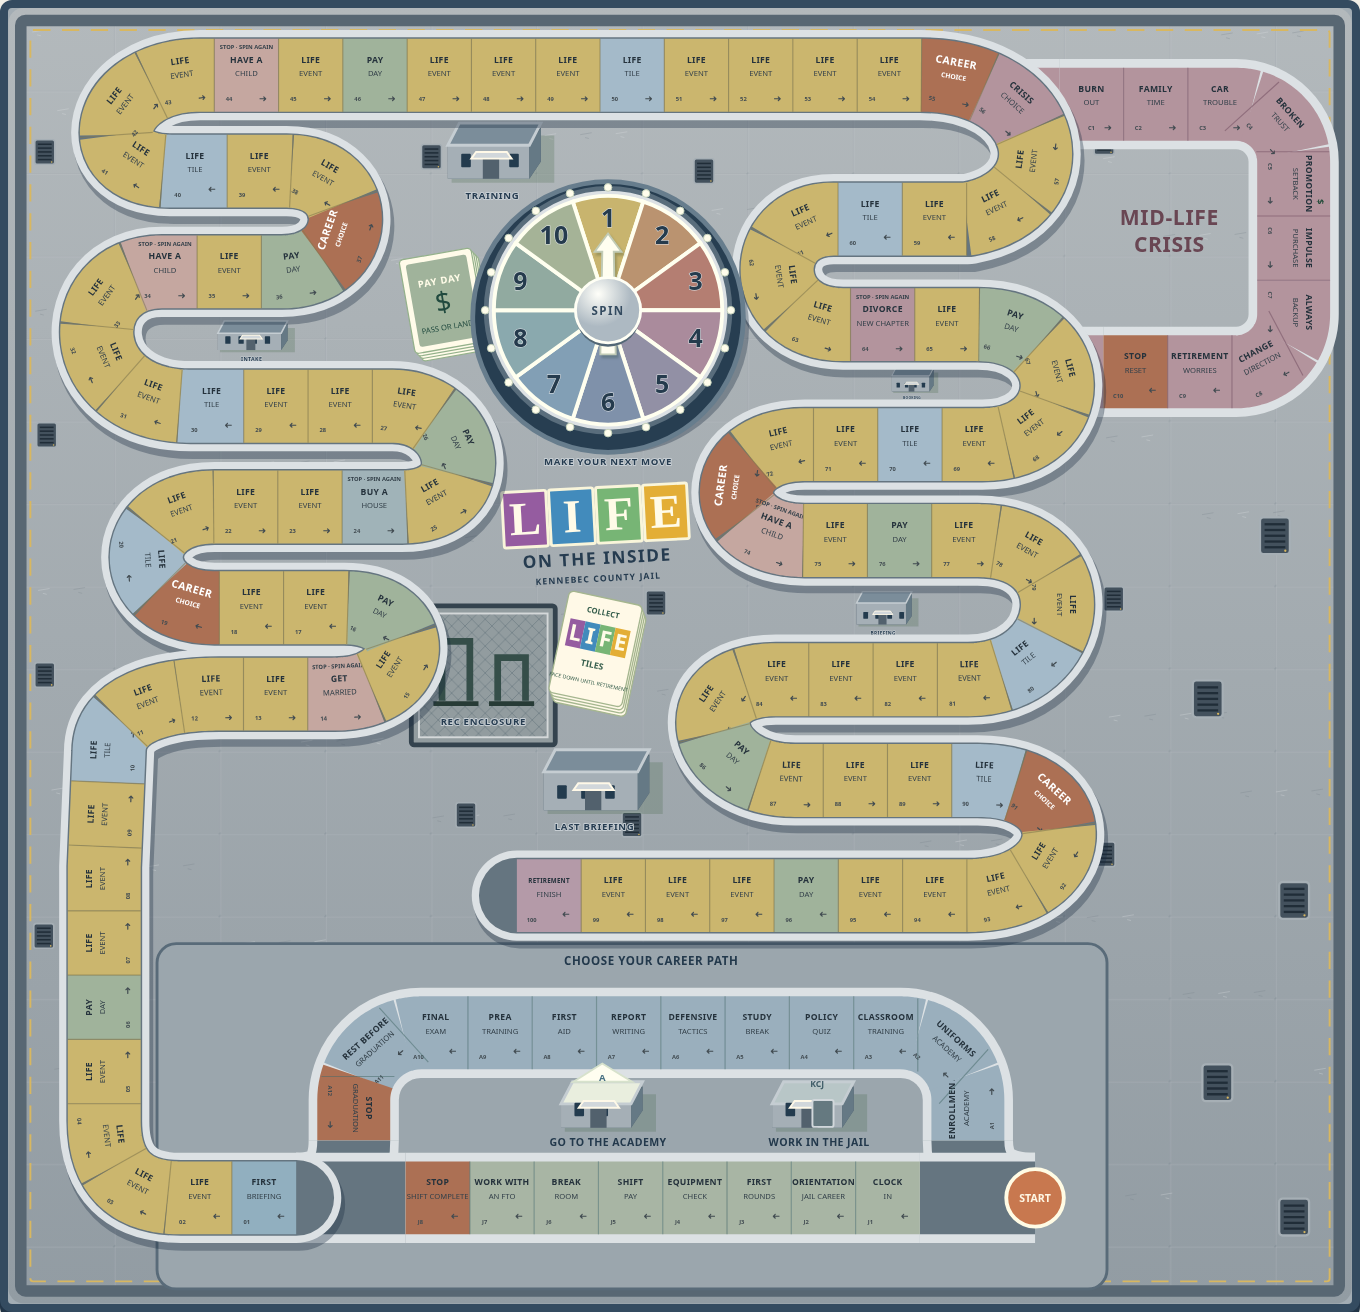
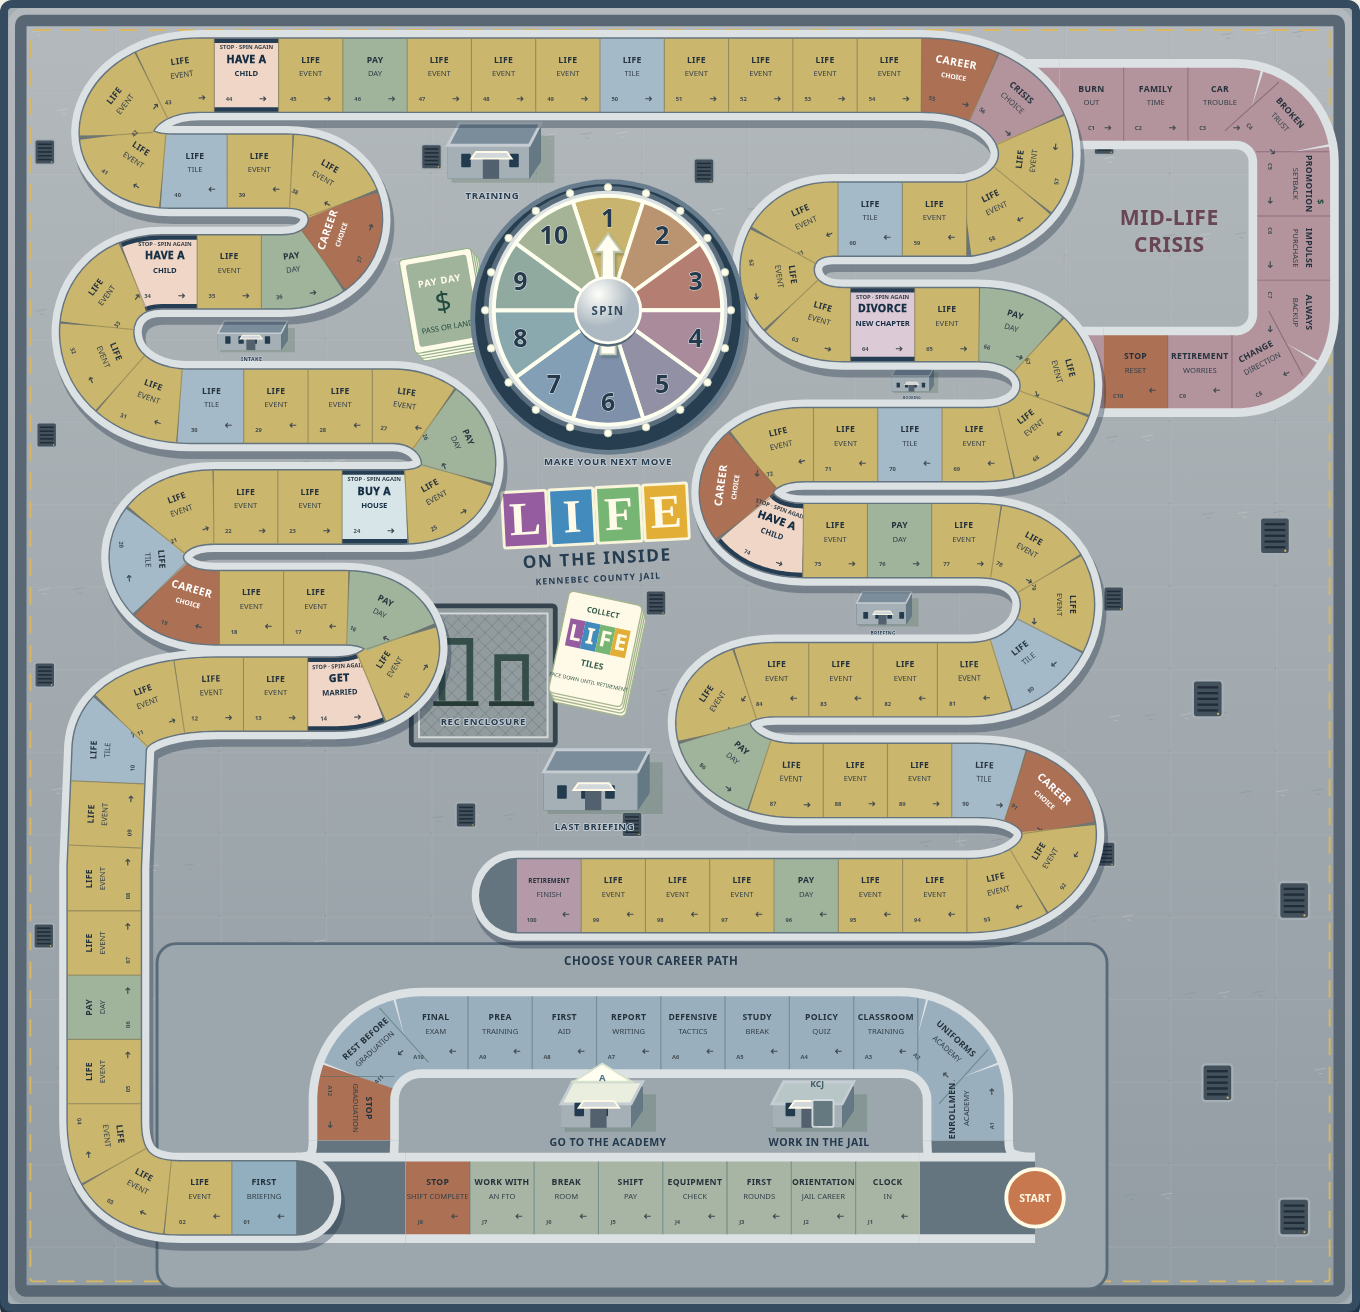
Highlight family stops and refresh cached LIFE board modules

diff --git a/public/life.html b/public/life.html
@@ -1,7 +1,7 @@
-<!doctype html><html lang="en"><head><meta charset="utf-8"><meta name="viewport" content="width=device-width,initial-scale=1"><title>Life on the Inside · The County Career</title><link rel="stylesheet" href="/life/style.css"><link rel="stylesheet" href="/life/board.css"><link rel="stylesheet" href="/online.css"><script type="module" src="/life/app.js"></script></head><body>
+<!doctype html><html lang="en"><head><meta charset="utf-8"><meta name="viewport" content="width=device-width,initial-scale=1"><title>Life on the Inside · The County Career</title><link rel="stylesheet" href="/life/style.css"><link rel="stylesheet" href="/life/board.css?v=family-stops-2"><link rel="stylesheet" href="/online.css"><script type="module" src="/life/app.js?v=family-stops-2"></script></head><body>
 <header class="life-header"><a class="life-brand" href="/"><span class="brand-stamp" aria-hidden="true">L</span><span>Life on the Inside<small>THE COUNTY CAREER</small></span></a><nav><button id="showRules" class="text-button" type="button">How to play</button><a href="/">All games</a></nav></header>
 <main id="lifeMain"><section class="game-intro"><div><p class="eyebrow">KENNEBEC COUNTY JAIL</p><h1>A career worth<br>talking about.</h1></div><p>Work the shift. Look after your crew.<br>Make it to retirement your way.</p></section>
-<div class="career-layout"><section class="board-panel" aria-label="Career board"><div class="board-heading"><span>THE COUNTY CAREER</span><a href="/life-preview">View board mockup</a></div><div id="careerBoard" class="career-board" aria-label="Career path from first briefing to retirement"><div id="careerTiles" class="career-tiles"></div><div id="careerTokens" class="career-tokens"></div></div><div class="board-key"><span><b>Yellow</b> County event</span><span><b>Coral</b> Career choice</span><span><b>Green</b> Pay Day</span><span><b>Blue</b> LIFE tile</span><span><b>Rose</b> Mid-Life Crisis</span></div><p class="board-note">Collect salary when passing or landing on green Pay Days. Land on blue spaces to collect face-down LIFE tiles. At Stop 56, choose the main road or Mid-Life Crisis; the detour rejoins at Stop 67.</p></section>
+<div class="career-layout"><section class="board-panel" aria-label="Career board"><div class="board-heading"><span>THE COUNTY CAREER</span><a href="/life-preview">View board mockup</a></div><div id="careerBoard" class="career-board" aria-label="Career path from first briefing to retirement"><div id="careerTiles" class="career-tiles"></div><div id="careerTokens" class="career-tokens"></div></div><div class="board-key"><span><b>Yellow</b> County event</span><span><b>Coral</b> Career choice</span><span><b>Green</b> Pay Day</span><span><b>Blue</b> LIFE tile</span><span><b>Rose</b> Mid-Life Crisis</span><span><b>Navy border</b> Family stops · resolve and spin again</span></div><p class="board-note">Collect salary when passing or landing on green Pay Days. Land on blue spaces to collect face-down LIFE tiles. At Stop 56, choose the main road or Mid-Life Crisis; the detour rejoins at Stop 67.</p></section>
 <section class="turn-panel" aria-label="Turn controls"><p id="turnEyebrow" class="eyebrow">ON THE CLOCK</p><h2 id="turnName">Loading your crew…</h2><p id="turnRank"></p><div id="turnStats" class="turn-stats"></div><div id="lifeTileRack" class="life-tile-collection"></div><div class="roll-area"><span id="careerDie" class="spinner-result" aria-label="Spinner ready">–</span><p id="turnHint" role="status" aria-live="polite"></p></div><button id="rollCareer" class="primary" type="button">Spin for your shift →</button><button id="openDecision" class="primary" type="button" hidden>Make your decision →</button><button id="endCareerTurn" class="primary" type="button" hidden>End turn →</button><p id="lifeError" class="error" role="alert"></p><button data-end-game class="text-button danger" type="button" hidden>End game</button></section></div>
 <section class="roster-section" aria-labelledby="rosterTitle"><div class="section-heading"><p class="eyebrow">YOUR CREW</p><h2 id="rosterTitle">Everyone’s building a story.</h2></div><div id="careerRoster" class="career-roster"></div></section>
 <section id="careerResults" class="results" aria-labelledby="resultsTitle" hidden><p class="eyebrow">THE FINAL BRIEFING</p><h2 id="resultsTitle"></h2><p>Savings + LIFE tile bonuses + home value + $100 per child.</p><ol id="finalScores"></ol><a class="primary" href="/life-setup">Play again →</a></section>

diff --git a/public/life-preview.html b/public/life-preview.html
@@ -1,3 +1,3 @@
-<!doctype html><html lang="en"><head><meta charset="utf-8"><meta name="viewport" content="width=device-width,initial-scale=1"><meta name="description" content="See the winding board mockup for Life on the Inside, the Kennebec County Jail career game."><title>Life on the Inside · Board mockup</title><link rel="stylesheet" href="/life/style.css"><link rel="stylesheet" href="/life/board.css"><script type="module" src="/life/preview.js"></script></head><body>
+<!doctype html><html lang="en"><head><meta charset="utf-8"><meta name="viewport" content="width=device-width,initial-scale=1"><meta name="description" content="See the winding board mockup for Life on the Inside, the Kennebec County Jail career game."><title>Life on the Inside · Board mockup</title><link rel="stylesheet" href="/life/style.css"><link rel="stylesheet" href="/life/board.css?v=family-stops-2"><script type="module" src="/life/preview.js?v=family-stops-2"></script></head><body>
 <header class="life-header"><a class="life-brand" href="/"><span class="brand-stamp" aria-hidden="true">L</span><span>Life on the Inside<small>THE COUNTY CAREER</small></span></a><nav aria-label="Game navigation"><a href="/">All games</a><a href="/life-setup">Play the game</a></nav></header>
-<main class="board-preview-main"><span class="preview-tag">BOARD MOCKUP</span><h1>Choose your path.<br>Build your career.</h1><p class="lead">Play through 12 Academy spaces or 8 jail-career spaces, then follow the winding main road with 100 spaces and a ten-number spinner. Just after halfway, a ten-space Mid-Life Crisis branch brings difficult choices before rejoining the main road. Collect paychecks, make life decisions, and gather face-down LIFE tiles worth cash at retirement.</p><div class="preview-board-wrap"><div class="board-heading"><span>LIFE ON THE INSIDE</span><span>KENNEBEC COUNTY JAIL</span></div><div id="careerBoard" class="career-board" aria-label="Board mockup"><div id="careerTiles" class="career-tiles"></div></div><div class="board-key"><span><b>Yellow</b> County event</span><span><b>Coral</b> Career choice</span><span><b>Green</b> Pay Day</span><span><b>Blue</b> LIFE tile</span><span><b>Rose</b> Mid-Life Crisis</span></div></div><div class="preview-actions"><a class="primary" href="/life-setup">Gather your crew →</a><a class="life-preview-link" href="/life/board-mockup.png">Open full-size mockup ↗</a><span id="previewSpinResult" role="status" aria-live="polite">Try the spinner in the middle of the board.</span></div></main><footer>Life on the Inside · The County Career</footer></body></html>
+<main class="board-preview-main"><span class="preview-tag">BOARD MOCKUP</span><h1>Choose your path.<br>Build your career.</h1><p class="lead">Play through 12 Academy spaces or 8 jail-career spaces, then follow the winding main road with 100 spaces and a ten-number spinner. Just after halfway, a ten-space Mid-Life Crisis branch brings difficult choices before rejoining the main road. Collect paychecks, make life decisions, and gather face-down LIFE tiles worth cash at retirement.</p><div class="preview-board-wrap"><div class="board-heading"><span>LIFE ON THE INSIDE</span><span>KENNEBEC COUNTY JAIL</span></div><div id="careerBoard" class="career-board" aria-label="Board mockup"><div id="careerTiles" class="career-tiles"></div></div><div class="board-key"><span><b>Yellow</b> County event</span><span><b>Coral</b> Career choice</span><span><b>Green</b> Pay Day</span><span><b>Blue</b> LIFE tile</span><span><b>Rose</b> Mid-Life Crisis</span><span><b>Navy border</b> Family stops · resolve and spin again</span></div></div><div class="preview-actions"><a class="primary" href="/life-setup">Gather your crew →</a><a class="life-preview-link" href="/life/board-mockup.png?v=family-stops-2">Open full-size mockup ↗</a><span id="previewSpinResult" role="status" aria-live="polite">Try the spinner in the middle of the board.</span></div></main><footer>Life on the Inside · The County Career</footer></body></html>

diff --git a/public/life/board.js b/public/life/board.js
@@ -1,4 +1,4 @@
-import {spaces,entryTracks,crisisSpaces,crisisFork,crisisRejoin,spinnerMax,spinnerStep} from './rules.js';
+import {spaces,entryTracks,crisisSpaces,crisisFork,crisisRejoin,spinnerMax,spinnerStep} from './rules.js?v=family-stops-2';
 
 // All board art is original SVG. The road geometry also drives pawn movement.
 export const boardWidth=1400,boardHeight=1350;
@@ -188,9 +188,11 @@ export function createBoard(target){
  add(svg,'path',{d:road,fill:'none',stroke:'#dce1e4','stroke-width':94,'stroke-linecap':'round','stroke-linejoin':'round'});
  add(svg,'path',{d:road,fill:'none',stroke:'#657580','stroke-width':79,'stroke-linecap':'round'});
  spaces.forEach((space,i)=>{
-  const tile=add(svg,'g',{class:'career-tile type-'+space.type,'aria-label':`Stop ${i+1}: ${space.name}`});
+  const tile=add(svg,'g',{class:'career-tile type-'+space.type+(space.eventId?' family-stop':''),'aria-label':`Stop ${i+1}: ${space.name}`});
   const samples=Array.from({length:17},(_,j)=>point((i+j/16)*step));
   add(tile,'path',{d:samples.map((p,j)=>(j?'L':'M')+p.x.toFixed(2)+' '+p.y.toFixed(2)).join(' '),fill:'none',stroke:space.eventId?(space.eventId==='house'?'#a0b3b8':space.eventId==='divorce'?'#b3949d':'#c5a7a0'):i===crisisFork?'#b3949d':fills[space.type],'stroke-width':roadWidth,'stroke-linejoin':'round'});
+  if(space.eventId)add(tile,'path',{d:samples.map((p,j)=>(j?'L':'M')+p.x.toFixed(2)+' '+p.y.toFixed(2)).join(' '),fill:'none',stroke:'#263e54','stroke-width':roadWidth,'stroke-linejoin':'round'});
+  if(space.eventId)add(tile,'path',{d:samples.map((p,j)=>(j?'L':'M')+p.x.toFixed(2)+' '+p.y.toFixed(2)).join(' '),fill:'none',stroke:space.eventId==='house'?'#d7e5e8':space.eventId==='divorce'?'#dccbd7':'#f0d6c6','stroke-width':roadWidth-9,'stroke-linejoin':'round'});
   if(i){const p=point(i*step),nx=-Math.sin(p.angle),ny=Math.cos(p.angle);add(tile,'path',{d:`M${p.x+nx*38} ${p.y+ny*38}L${p.x-nx*38} ${p.y-ny*38}`,stroke:'#837a4f99','stroke-width':1.2});}
   const p=point((i+.5)*step);let angle=p.angle*180/Math.PI;if(angle>90)angle-=180;if(angle<-90)angle+=180;
   const text=add(tile,'g',{transform:`translate(${p.x} ${p.y}) rotate(${angle})`});

diff --git a/public/life-setup.html b/public/life-setup.html
@@ -1,4 +1,4 @@
-<!doctype html><html lang="en"><head><meta charset="utf-8"><meta name="viewport" content="width=device-width,initial-scale=1"><meta name="description" content="Gather your crew for Life on the Inside, an original county-jail career board game."><title>Life on the Inside · Gather your crew</title><link rel="stylesheet" href="/life/style.css"><link rel="stylesheet" href="/life/board.css"><link rel="stylesheet" href="/online.css"><script type="module" src="/life/setup.js"></script></head><body>
+<!doctype html><html lang="en"><head><meta charset="utf-8"><meta name="viewport" content="width=device-width,initial-scale=1"><meta name="description" content="Gather your crew for Life on the Inside, an original county-jail career board game."><title>Life on the Inside · Gather your crew</title><link rel="stylesheet" href="/life/style.css"><link rel="stylesheet" href="/life/board.css?v=family-stops-2"><link rel="stylesheet" href="/online.css"><script type="module" src="/life/setup.js?v=family-stops-2"></script></head><body>
 <header class="life-header"><a class="life-brand" href="/"><span class="brand-stamp" aria-hidden="true">L</span><span>Life on the Inside<small>THE COUNTY CAREER</small></span></a><nav><a href="/">All games</a></nav></header>
 <main class="life-setup"><p class="eyebrow">KENNEBEC COUNTY JAIL · AN ORIGINAL BOARD GAME</p><h1>First shift.<br>Whole career ahead.</h1><p class="lead">Choose a career, collect paychecks, build a family, and gather LIFE tiles for retirement.</p><div class="setup-facts"><span>2–6 players</span><span>100 career spaces</span><span>One device or room code</span></div>
 <a class="life-preview-link" href="/life-preview">View the board mockup →</a><br><a id="resumeCareer" class="resume-career" href="/life" hidden>Continue your saved career →</a>

diff --git a/public/life/app.js b/public/life/app.js
@@ -1,5 +1,5 @@
-import {pawns,colors,ranks,gameKey,loadGame,decision,perform,standings,spaceCount,lastSpace,spinnerStep,entryTracks,inEntry,inCrisis,crisisSpaces,crisisFork,salary,tileCount,tileBonus,homeValue,familyBonus,lifeTiles} from './rules.js';
-import {createBoard} from './board.js';
+import {pawns,colors,ranks,gameKey,loadGame,decision,perform,standings,spaceCount,lastSpace,spinnerStep,entryTracks,inEntry,inCrisis,crisisSpaces,crisisFork,salary,tileCount,tileBonus,homeValue,familyBonus,lifeTiles} from './rules.js?v=family-stops-2';
+import {createBoard} from './board.js?v=family-stops-2';
 import {OnlineRoom,roomBanner} from '../online.js';
 import {bindEndGame,clearEndedGame} from '../end-game.js';
 const $=id=>document.getElementById(id),el=(tag,cls,text)=>{const n=document.createElement(tag);if(cls)n.className=cls;if(text!==undefined)n.textContent=text;return n;};

diff --git a/public/life/preview.js b/public/life/preview.js
@@ -1,5 +1,5 @@
-import {createBoard} from './board.js';
-import {spinnerMax,spinnerStep} from './rules.js';
+import {createBoard} from './board.js?v=family-stops-2';
+import {spinnerMax,spinnerStep} from './rules.js?v=family-stops-2';
 const board=createBoard(document.getElementById('careerTiles'));
 let angle=0;
 for(const {button,path} of board.pathButtons)button.onclick=()=>{board.setPath(path);document.getElementById('previewSpinResult').textContent=path==='academy'?'Academy route: spin through 12 spaces, stop at graduation, then join the main road.':'Jail route: spin through 8 work spaces, finish the first shift, then join the main road.';};

diff --git a/public/life/board.css b/public/life/board.css
@@ -16,3 +16,5 @@
 .life-board-art .start-area-heading,.life-board-art .start-choice-label{fill:#23394c}
 .life-board-art .spinner-number{fill:#253b4d;stroke:#e1e5e8}.life-board-art .spinner-center{fill:#344b60}
 .career-start-panel{background:#e5e9ec;border-color:#9daebc}.start-path-choice{background:#f1f3f5}.start-route[data-selected="true"] .start-route-edge{stroke:#e8cf85}
+
+.life-board-art .family-stop .road-space-title{font-size:11px;font-weight:950;fill:#172f45}.life-board-art .family-stop .road-space-detail{font-size:8px;font-weight:850;fill:#172f45}

diff --git a/public/life/setup.js b/public/life/setup.js
@@ -1,4 +1,4 @@
-import {pawns,createGame,loadGame,gameKey,validateRoster} from './rules.js';
+import {pawns,createGame,loadGame,gameKey,validateRoster} from './rules.js?v=family-stops-2';
 import {onlineSetup} from '../online-setup.js';
 const form=document.getElementById('lifeSetupForm'),rows=document.getElementById('lifePlayerRows'),status=document.getElementById('setupStatus');
 const el=(tag,text)=>{const e=document.createElement(tag);if(text)e.textContent=text;return e;};
